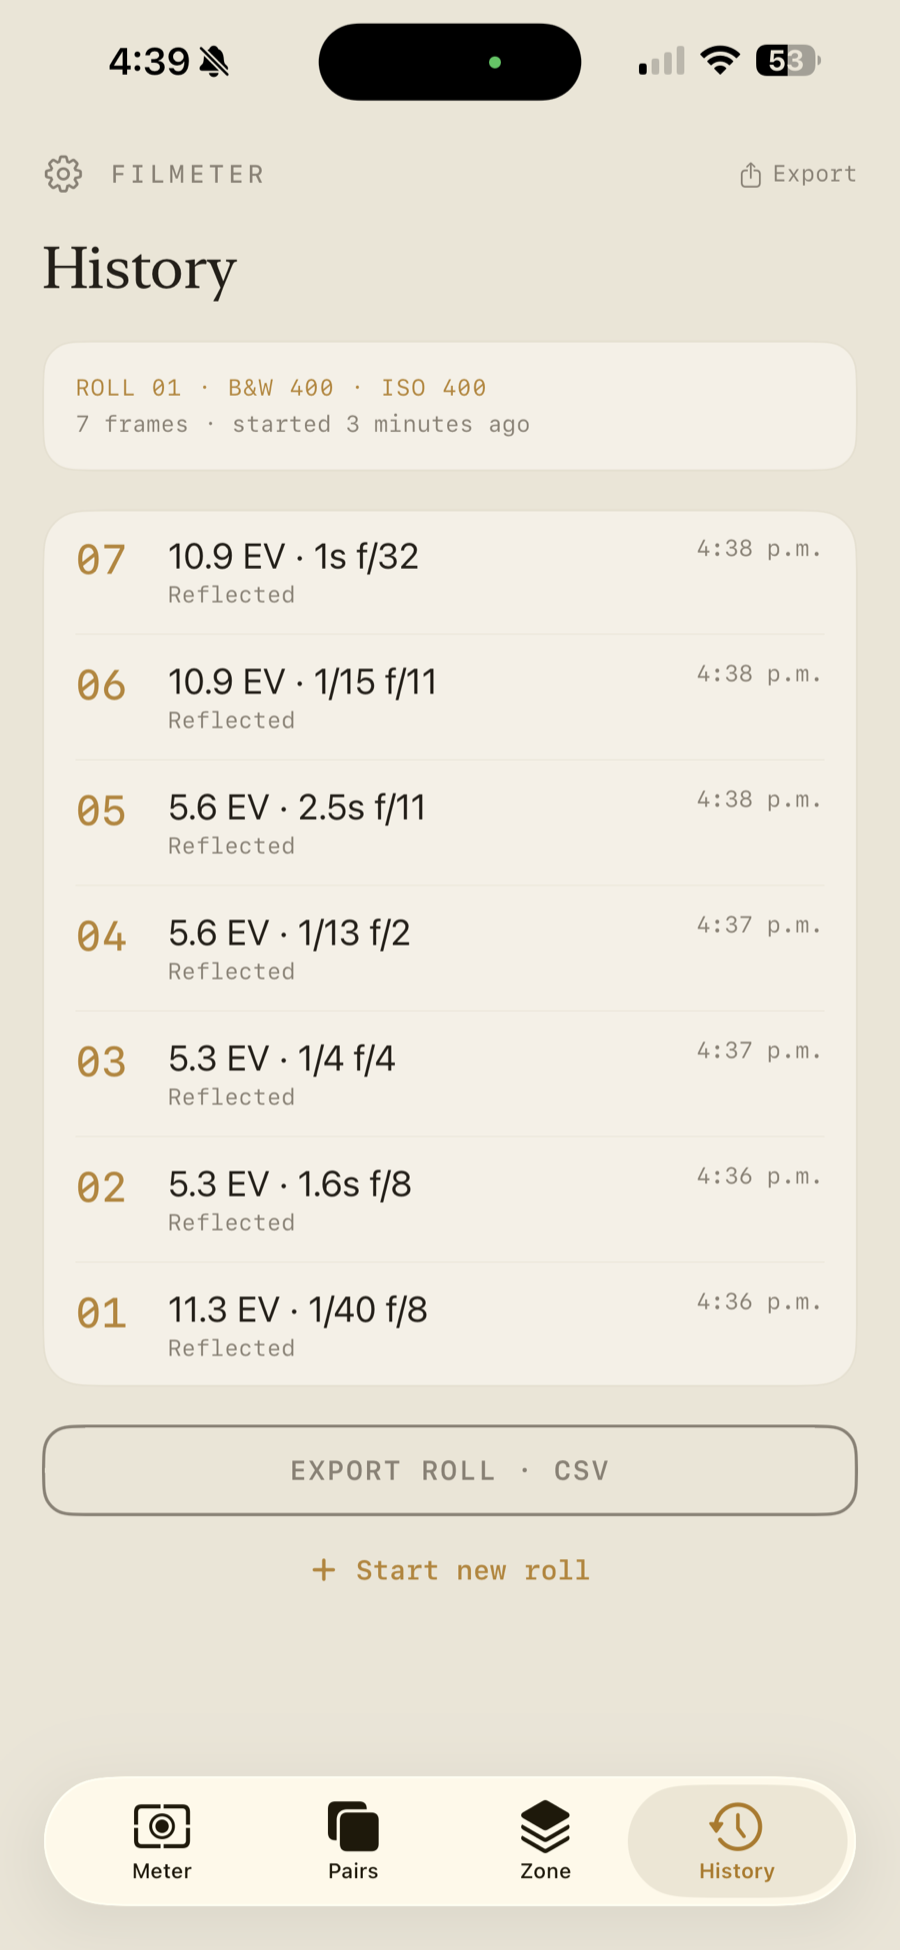
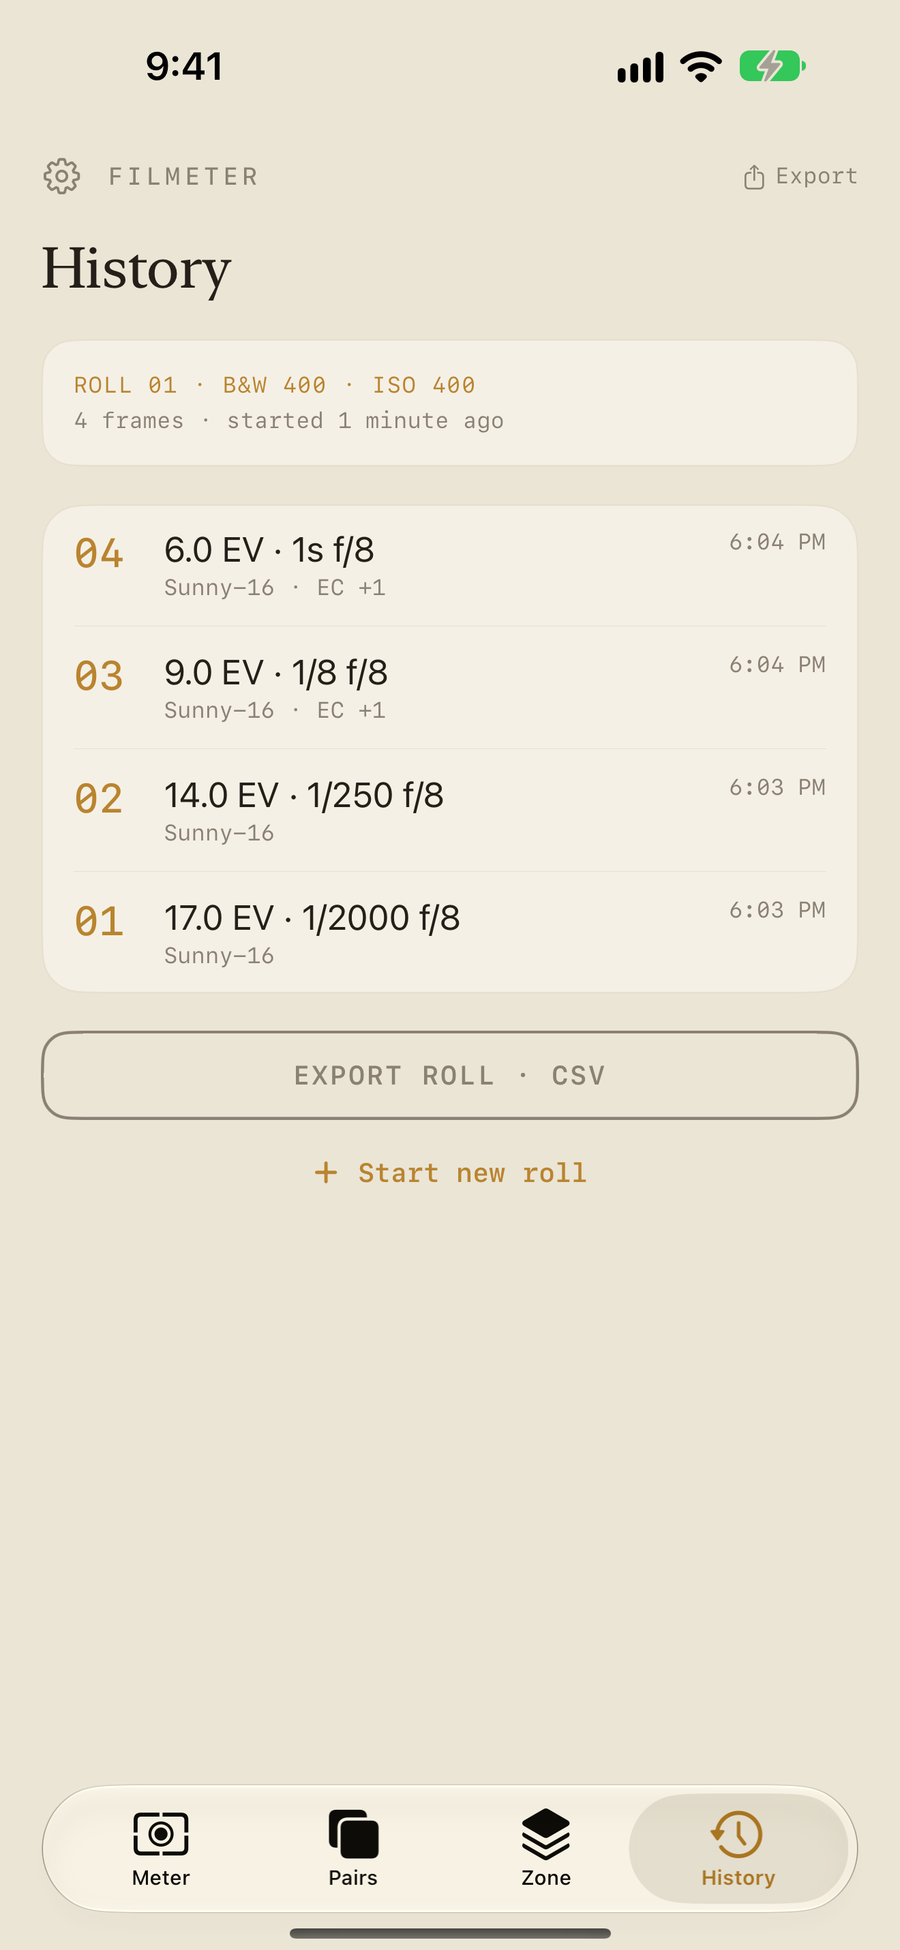
Filmeter: 1.1 page — one-time Pro, new tools, new screenshots
- Version 1.1.0; price line "Free · Pro: one-time purchase, no
  subscription" (no amount on the site).
- Incident metering is free and labelled approximate (white paper,
  calibrate once); the "beta" wording is gone.
- New in the copy: exposure compensation, the Bulb timer inside
  Reciprocity, depth of field, the pinned Meter buttons, compensation in
  the logbook and its CSV column.
- Guide "Free and Pro" and the FAQ rewritten for the one-time purchase;
  "How do I cancel?" becomes "Is Pro a subscription?".
- Ten screenshots from the 1.1 build (900x1950), including a new depth
  of field frame; no paywall and no price in them.

diff --git a/app-details.js b/app-details.js
@@ -484,12 +484,12 @@ window.APP_DETAILS = {
     ],
   },
 
-  // Source of truth: Filmeter PRODUCT_DOC.md (2026-07-05, codebase commit e946508).
+  // Source of truth: Filmeter PRODUCT_DOC.md in Obsidian (2026-10-16, version 1.1.0).
   filmeter: {
-    version: "1.0.1",
+    version: "1.1.0",
     appStore: "https://apps.apple.com/us/app/filmeter-film-light-meter/id6785722973",
     appStoreLabel: "Download on the App Store",
-    price: "Free · Pro: subscription with free trial, or one-time Lifetime",
+    price: "Free · Pro: one-time purchase, no subscription",
     privacyDoc: "filmeter/privacy.html",
     termsDoc: "filmeter/terms.html",
     heroImage: "filmeter-1-meter.png",
@@ -497,7 +497,7 @@ window.APP_DETAILS = {
 
     tagline: "A light meter,\nmade for film.",
     subhead: "Turn your iPhone into a reflected/incident exposure meter — read EV and a full ladder of shutter/aperture pairs at your ISO, then work the Zone System, reciprocity, and filter/bellows factors, and log every frame by roll. On-device. No account. An estimate, not a lab.",
-    blurb: "Filmeter is a native iPhone light meter for film photography. Point the camera at a scene and it reads the live exposure and returns EV plus a ladder of shutter/aperture pairs at your chosen ISO — the analog metering workflow, in your pocket. Beyond the basic reading it carries the film-specific tools a lux app never bothers with: the Zone System, reciprocity correction for long exposures, filter & bellows compensation, per-stock film profiles, a one-time calibration, and a per-frame roll logbook.",
+    blurb: "Filmeter is a native iPhone light meter for film photography. Point the camera at a scene and it reads the live exposure and returns EV plus a ladder of shutter/aperture pairs at your chosen ISO — the analog metering workflow, in your pocket. Beyond the basic reading it carries the film-specific tools a lux app never bothers with: the Zone System, reciprocity correction for long exposures, filter & bellows compensation, per-stock film profiles, a one-time calibration, and a per-frame roll logbook. Version 1.1 adds exposure compensation, a Bulb timer for long exposures, and a depth-of-field calculator.",
     pitch: "Point the camera and get EV plus the whole shutter/aperture ladder — then work the zones, correct reciprocity, and log the frame. All on-device, no account, no photo ever captured.",
 
     // ── Hero stats ──
@@ -520,23 +520,24 @@ window.APP_DETAILS = {
     flow: [
       { step: "01", title: "Meter the light", body: "Reflected off your subject with the back camera, incident toward the light, or camera-free with Sunny-16 — pick a mode and Filmeter reads the live exposure into a calibrated EV." },
       { step: "02", title: "Read EV and every pair", body: "One clean readout: EV to a tenth of a stop, the exposure triplet, a deviation dial versus your locked reading, and a scrollable wheel of equivalent shutter/aperture pairs at your ISO." },
-      { step: "03", title: "Work the film tools, log the roll", body: "Place tones on the Zone System, correct a long exposure with reciprocity, add filter and bellows stops — then log the frame into a named roll you can export to CSV." },
+      { step: "03", title: "Work the film tools, log the roll", body: "Place tones on the Zone System, correct a long exposure with reciprocity and time it with the Bulb timer, check depth of field, add filter and bellows stops — then log the frame into a named roll you can export to CSV." },
     ],
 
     // ── Screenshot gallery (single tour group, portrait iPhone shots) ──
-    screenshotsHeading: "Nine screens, the whole meter.",
+    screenshotsHeading: "Ten screens, the whole meter.",
     screenshotCols: 4,
     screenshots: {
       tour: [
         { src: "filmeter-1-meter.png", caption: "The Meter — reflected off your subject. EV to a tenth of a stop, a scene-vs-lock deviation dial, the ISO / shutter / aperture triplet, and a center-snapped wheel of equivalent pairs. LOCK holds the reading; MEASURE and LOG sit below." },
         { src: "filmeter-2-pairs.png", caption: "Exposure Pairs — the full aperture- or shutter-priority ladder at the live EV and ISO, with a full / ½ / ⅓-stop toggle. The locked pair is highlighted; edge-of-range pairs fade out." },
-        { src: "filmeter-3-zone.png", caption: "The Zone System as a live spot meter — tap tones onto zones 0–X. PLACED ON and SCENE RANGE cards read the anchor and the scene’s contrast (here V–VIII, low contrast · N+)." },
-        { src: "filmeter-4-reciprocity.png", caption: "Reciprocity — Schwarzschild long-exposure correction per film profile. A METERED → CORRECTED card shows the added stops; generic exponents only, no branded film tables." },
+        { src: "filmeter-3-zone.png", caption: "The Zone System as a live spot meter — tap tones onto zones 0–X. PLACED ON and SCENE RANGE cards read the anchor and the scene’s contrast (here V–IX, normal contrast · N)." },
+        { src: "filmeter-4-reciprocity.png", caption: "Reciprocity and the Bulb timer — Schwarzschild long-exposure correction per film profile, then a countdown for the corrected time. A METERED → CORRECTED card shows the added stops; generic exponents only, no branded film tables." },
         { src: "filmeter-5-filter-bellows.png", caption: "Filter & Bellows — add the stops for an ND or polarizer (as a factor or directly in stops) and for macro bellows extension at a magnification, summed into a TOTAL you apply to the exposure." },
-        { src: "filmeter-6-incident.png", caption: "Incident (beta) — a falling-light reading from the front camera, with a Dome or Flat receptor and illuminance in lux alongside EV. It ships as an honest, experimental extra." },
-        { src: "filmeter-7-sunny16.png", caption: "Sunny-16 — no camera needed. Pick a condition, from Bright sun (EV 15) down to Low light (EV 3), and the meter uses that reference EV to drive the full pairs pipeline." },
+        { src: "filmeter-6-incident.png", caption: "Incident — a falling-light reading from the front camera, free and labelled approximate: cover the camera with a sheet of white paper, pick a Flat or Dome receptor, and calibrate once. Illuminance in lux alongside EV." },
+        { src: "filmeter-7-sunny16.png", caption: "Sunny-16 — no camera needed. Pick a condition, from Bright sun (EV 15) down to Low light (EV 3), and the meter uses that reference EV to drive the full pairs pipeline. The EC pill dials in ±3 EV of compensation (here +1)." },
         { src: "filmeter-8-profile.png", caption: "Film profiles — save a stock’s name, ISO, reciprocity exponent and threshold, and an auto-apply toggle. One profile is free; Pro unlocks unlimited. No branded data — only what you type." },
-        { src: "filmeter-9-history.png", caption: "History — a per-frame roll logbook. Each frame stores EV, shutter, aperture and mode; a completed roll archives to Past Rolls, and any roll exports to CSV (Pro)." },
+        { src: "filmeter-9-history.png", caption: "History — a per-frame roll logbook. Each frame stores EV, shutter, aperture, mode and compensation; a completed roll archives to Past Rolls, and any roll exports to CSV (Pro)." },
+        { src: "filmeter-10-depth-of-field.png", caption: "Depth of field — near and far limits, total depth and the hyperfocal distance for your focal length, aperture and film format, from half-frame to 8×10, in metres or feet (Pro)." },
       ],
     },
 
@@ -545,11 +546,12 @@ window.APP_DETAILS = {
       {
         kicker: "Meter — the hub (free)",
         items: [
-          "Three metering modes: Reflected (back camera, free), Incident (front camera, Pro, beta), and Sunny-16 — a camera-free reference by condition, free.",
+          "Three metering modes, all free: Reflected (back camera), Incident (front camera, approximate — cover it with a sheet of white paper and calibrate once), and Sunny-16 — a camera-free reference by condition.",
+          "Exposure compensation: ±3 EV in ⅓-stop steps from the EC pill; the pairs, Zone and the logbook follow it, and each frame records it.",
           "Calibrated EV to a tenth of a stop, with a semicircular needle showing scene-versus-lock deviation in stops.",
           "Exposure triplet cards — ISO, shutter, aperture — with a marker on shutter when reciprocity correction is applied.",
           "A horizontally scrollable, center-snapped wheel of aperture/shutter pairs; drag to pick the priority aperture.",
-          "LOCK holds a reading while AE keeps running; MEASURE takes a fresh hardware read; LOG appends the frame to the current roll.",
+          "LOCK holds a reading while AE keeps running; MEASURE takes a fresh hardware read; LOG appends the frame to the current roll. The buttons stay pinned above the tab bar, even on the smallest iPhones.",
           "A graceful no-camera state that offers Sunny-16 instead — the app never dead-ends.",
         ],
       },
@@ -557,9 +559,9 @@ window.APP_DETAILS = {
         kicker: "The analog toolkit (Pro)",
         items: [
           "The Zone System as a live spot meter — place tones on zones 0–X, read the scene range and an N− / N / N+ contrast descriptor.",
-          "Reciprocity: Schwarzschild long-exposure correction with generic presets or a custom exponent; correction only ever lengthens the time.",
+          "Reciprocity: Schwarzschild long-exposure correction with generic presets or a custom exponent; a Bulb timer counts the corrected time down and keeps the screen awake only while it runs.",
           "Filter & bellows compensation — filter factor (F× or stops) and bellows extension at a magnification, summed and pushed back into the meter.",
-          "Incident metering (beta) — a falling-light reading from the front camera; ships as an honest, experimental extra with no accuracy claim.",
+          "Depth of field: near and far limits, total depth and the hyperfocal distance for your lens, aperture and film format, from half-frame to 8×10.",
         ],
       },
       {
@@ -574,9 +576,9 @@ window.APP_DETAILS = {
       {
         kicker: "Roll logbook & export",
         items: [
-          "A per-frame roll logbook — the active roll collects frames, each storing EV, aperture, shutter, mode, reciprocity flag and timestamp.",
+          "A per-frame roll logbook — the active roll collects frames, each storing EV, aperture, shutter, mode, reciprocity flag, exposure compensation and timestamp.",
           "Start a new roll with a film-stock name and ISO; completed rolls archive to a read-only Past Rolls list.",
-          "Export any roll to CSV (Pro) via the system file exporter — Frame, EV, Aperture, Shutter, Mode, Reciprocity, Timestamp.",
+          "Export any roll to CSV (Pro) via the system file exporter — Frame, EV, Aperture, Shutter, Mode, Reciprocity, Timestamp, Compensation.",
           "Persistence is a local JSON file on the device. No cloud, no CloudKit, no account.",
         ],
       },
@@ -629,8 +631,8 @@ window.APP_DETAILS = {
           <p>Filmeter meters three ways, chosen with the segmented control at the top of the Meter tab:</p>
           <ul>
             <li><strong>Reflected</strong> (free) — the back camera reads the light bouncing off your subject. This is the default mode.</li>
-            <li><strong>Incident (beta)</strong> (Pro) — the front camera stands in for a diffuser aimed toward the light, showing illuminance in lux alongside EV. It ships as an honest approximation with no accuracy claim — a falling-light reading, experimental.</li>
-            <li><strong>Sunny-16</strong> (free) — no camera at all: pick a labelled condition (Bright sun, Open shade, Bright interior, Dim tungsten, Low light) and the meter uses that reference EV. This drives the full pairs / zone / history pipeline even with the camera denied.</li>
+            <li><strong>Incident</strong> (free) — the front camera reads the light falling on your subject, showing illuminance in lux alongside EV. It is an approximation: a bare front camera can’t integrate light like a real diffuser dome, so cover it with a sheet of plain white paper, choose Flat or Dome, and calibrate incident once.</li>
+            <li><strong>Sunny-16</strong> (free) — no camera at all: pick a labelled condition (Bright sun, Open shade, Bright interior, Dim tungsten, Low light) and the meter uses that reference EV. This drives the pairs and the logbook even with the camera denied.</li>
           </ul>
         `,
       },
@@ -639,7 +641,8 @@ window.APP_DETAILS = {
         title: "The analog toolkit",
         body: `
           <p><strong>The Zone System</strong> turns the app into a live spot meter: tap the preview to capture a tone, and the first capture becomes the anchor (Zone V, 18% mid-gray). An 11-swatch strip shows where each captured tone lands; <em>Place −1 / +1</em> shifts the anchor, and two cards summarise where you’ve placed and the scene’s contrast (N− / N / N+).</p>
-          <p><strong>Reciprocity</strong> applies the Schwarzschild law — <code>t_corrected = t^p</code> — to long exposures, with generic presets or a custom exponent from 1.00 to 2.00. If your active film profile has auto-reciprocity on, the correction is already baked into the meter and marked. <strong>Filter &amp; bellows</strong> adds the stops for an ND or polarizer (from an F× factor or direct stops) and for macro bellows extension at a given magnification, then pushes the total back into the exposure.</p>
+          <p><strong>Reciprocity</strong> applies the Schwarzschild law — <code>t_corrected = t^p</code> — to long exposures, with generic presets or a custom exponent from 1.00 to 2.00. If your active film profile has auto-reciprocity on, the correction is already baked into the meter and marked. <strong>Filter &amp; bellows</strong> adds the stops for an ND or polarizer (from an F× factor or direct stops) and for macro bellows extension at a given magnification, then pushes the total back into the exposure. The <strong>Bulb timer</strong>, inside Reciprocity, counts the corrected time down once you open the shutter.</p>
+          <p><strong>Depth of field</strong> gives near and far limits, total depth and the hyperfocal distance for a focal length, an aperture (or the Meter’s current one) and a film format from half-frame to 8×10, with a per-format circle of confusion, in metres or feet.</p>
         `,
       },
       {
@@ -660,10 +663,10 @@ window.APP_DETAILS = {
       },
       {
         id: "free-pro",
-        title: "Free, Pro, and Lifetime",
+        title: "Free and Pro",
         body: `
-          <p>The core is free: reflected and Sunny-16 metering, EV and exposure pairs, calibration, one film profile, and the roll logbook. <strong>Pro</strong> adds incident metering, the Zone System, reciprocity, filter &amp; bellows factors, CSV export, and unlimited film profiles.</p>
-          <p>Pro is one clear choice: a <strong>Monthly</strong> or <strong>Yearly</strong> subscription with a free trial, or a one-time <strong>Lifetime</strong> purchase that never renews. Prices are shown in the App Store for your region. Entitlement is verified against StoreKit — an unverified transaction never grants Pro — and <em>Restore purchases</em>, available in Settings and on the paywall, always reports a visible result. Manage or cancel any time via Apple’s native sheet; cancelling keeps access until the period ends.</p>
+          <p>The core is free: reflected, incident (approximate) and Sunny-16 metering, EV and exposure pairs, exposure compensation, calibration, one film profile, and the roll logbook. <strong>Pro</strong> adds the Zone System, reciprocity with the Bulb timer, depth of field, filter &amp; bellows factors, CSV export, and unlimited film profiles.</p>
+          <p>Pro is a single <strong>one-time purchase</strong> — no subscription, nothing renews. The price is shown in the App Store for your region. Entitlement is verified against StoreKit — an unverified transaction never grants Pro — and <em>Restore purchases</em>, available in Settings and on the paywall, always reports a visible result. Earlier versions also offered Monthly and Yearly subscriptions; they are no longer sold, and an existing one keeps Pro until it ends (manage it in Settings → Manage subscription).</p>
         `,
       },
     ],
@@ -674,11 +677,11 @@ window.APP_DETAILS = {
       { q: "How accurate is it?", a: "After a one-time calibration it tracks a reference within about a third of a stop across normal light — enough for colour and B&W negative latitude. It’s an estimate, not a lab instrument; always cross-check important shots against a trusted meter." },
       { q: "Do I need internet?", a: "No. Metering and logging are fully offline. The only network use is Apple’s App Store for a purchase or restore." },
       { q: "Which films are supported?", a: "Any — you enter the ISO and, optionally, a reciprocity exponent as a film profile. Filmeter ships no branded film tables; a profile holds only what you type." },
-      { q: "What’s free versus Pro?", a: "Free: reflected and Sunny-16 metering, EV, exposure pairs, calibration, one film profile, and the roll logbook. Pro: incident metering, the Zone System, reciprocity, filter & bellows, CSV export, and unlimited film profiles." },
-      { q: "Is incident metering accurate?", a: "Incident ships as a beta — a falling-light reading from the front camera without a real diffuser dome. It’s an honest, experimental extra with no accuracy claim; reflected metering is the calibrated core." },
-      { q: "Does it work in the iOS Simulator?", a: "The non-camera math and UI run in the Simulator, and Sunny-16 drives the full pipeline there. But the camera meter needs a physical device — the Simulator has no real exposure data." },
+      { q: "What’s free versus Pro?", a: "Free: reflected, incident (approximate) and Sunny-16 metering, EV, exposure pairs, exposure compensation, calibration, one film profile, and the roll logbook. Pro: the Zone System, reciprocity with the Bulb timer, depth of field, filter & bellows, CSV export, and unlimited film profiles." },
+      { q: "Is incident metering accurate?", a: "It’s an approximation — a falling-light reading from the bare front camera, which can’t integrate light like a real diffuser dome. Covering it with white paper and calibrating once makes it consistent; reflected metering is the calibrated core. Incident is free." },
+      { q: "Does it work in the iOS Simulator?", a: "The non-camera math and UI run in the Simulator, and Sunny-16 drives the pairs and the logbook there. But the camera meter needs a physical device — the Simulator has no real exposure data." },
       { q: "Does Filmeter need any permission besides the camera?", a: "No. The camera is the only permission it ever requests, used solely to read the scene’s live exposure. Sunny-16 works with no camera access at all. No Photos, Location, Microphone, Contacts, or Local Network." },
-      { q: "How do I cancel?", a: "Manage or cancel any time via Apple’s native subscription sheet in Settings; cancelling stops auto-renewal and keeps access until the period ends. Or buy Lifetime once and never think about it again." },
+      { q: "Is Pro a subscription?", a: "No. Pro is a single purchase that stays yours. Earlier versions offered subscriptions; an existing one keeps Pro until it ends and can be managed in Settings → Manage subscription." },
     ],
   },
 
